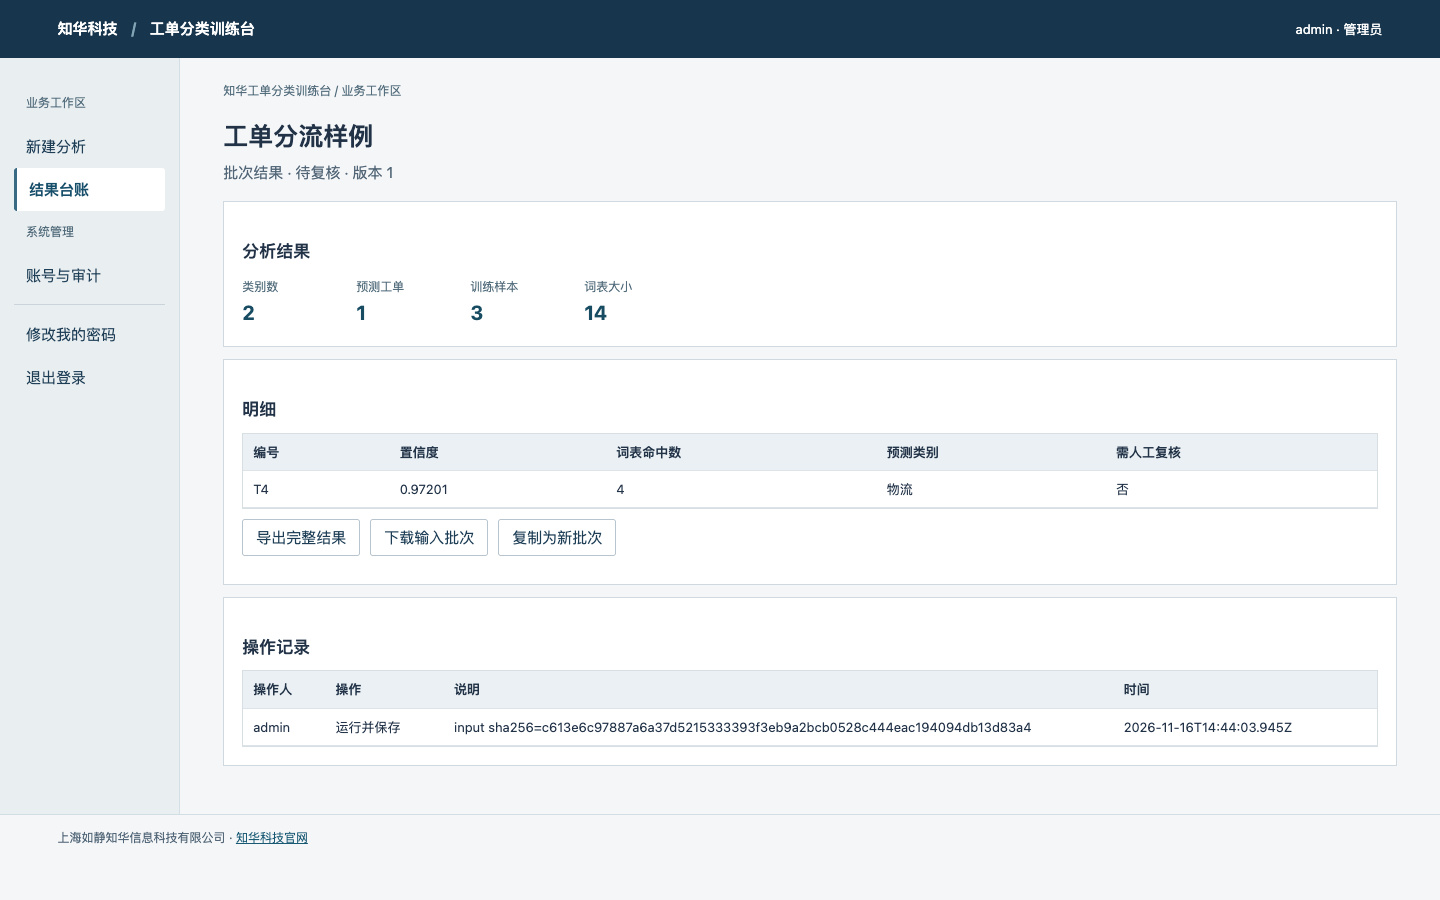
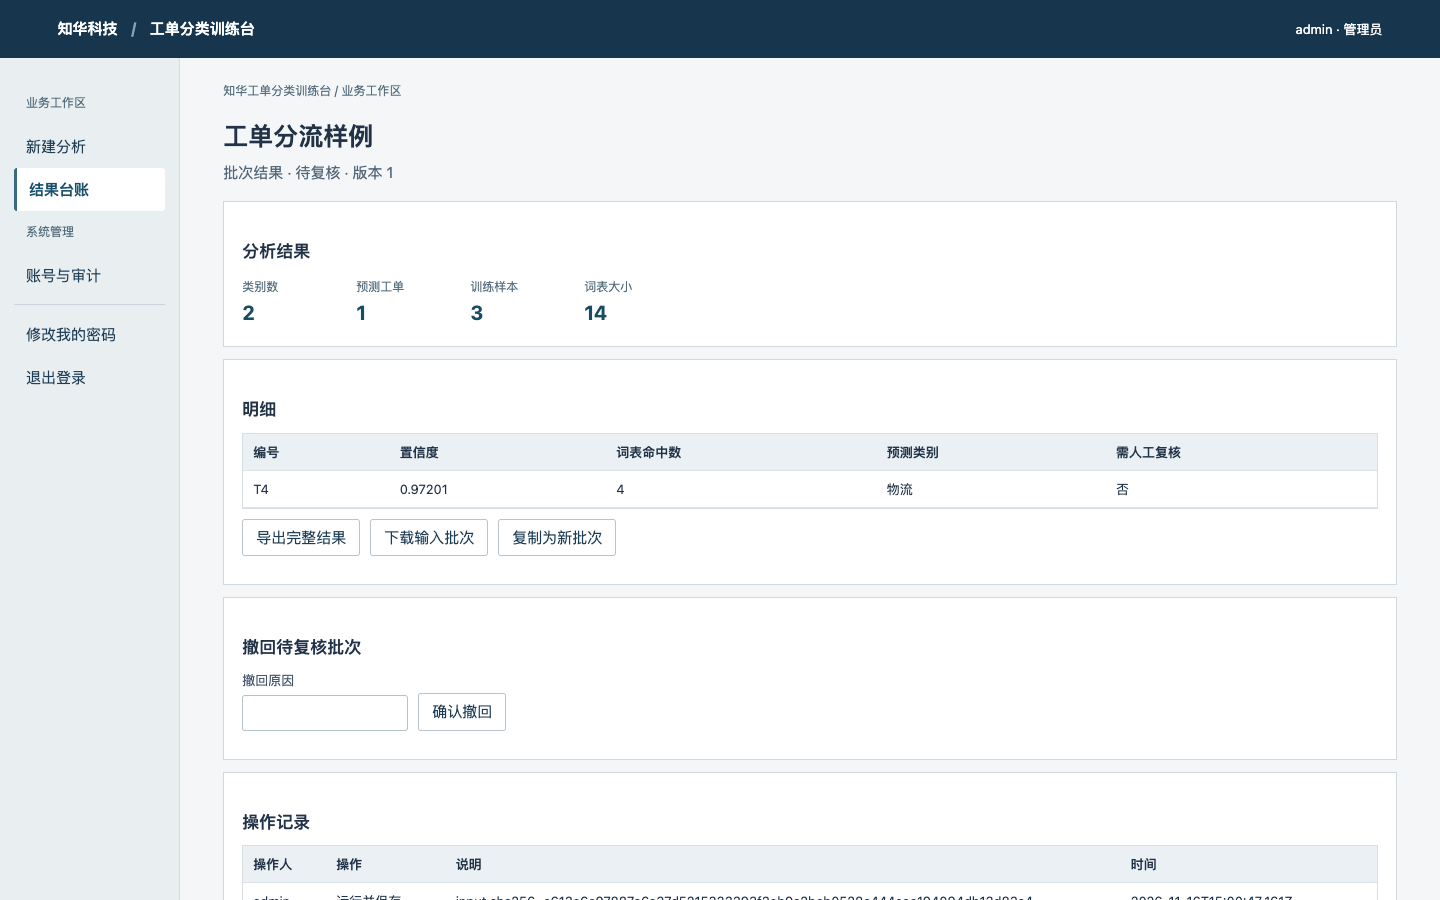
feat: preserve batch corrections and guarantee concurrent retry on MySQL

diff --git a/frontend/app.js b/frontend/app.js
@@ -1,4 +1,5 @@
 // 上海如静知华信息科技有限公司 · https://www.zhuatech.cn/
+import { readBatch } from "./batch-import.mjs";
 const $ = (id) => document.getElementById(id),
   cat = await fetch("/catalog.json").then((r) => r.json());
 let token = sessionStorage.getItem("workspace-token") || "",
@@ -10,7 +11,7 @@ let token = sessionStorage.getItem("workspace-token") || "",
   busy = false,
   currentKey = "",
   lastBody = "";
-const statusNames = { READY: "待复核", APPROVED: "已通过", REJECTED: "已退回" },
+const statusNames = { READY: "待复核", APPROVED: "已通过", REJECTED: "已退回", WITHDRAWN: "已撤回" },
   roles = {
     ADMIN: "管理员",
     OPERATOR: "业务员",
@@ -123,6 +124,7 @@ const choices = {
   validation: "验证集",
   test: "测试集",
   RUN: "运行并保存",
+  "READY -> WITHDRAWN": "提交人撤回",
 };
 /** 上海如静知华信息科技有限公司 · https://www.zhuatech.cn/ · 商业授权或定制开发请微信添加微信号zhuatech或zhuatech2进行咨询。 */
 function el(tag, text, cls) {
@@ -369,19 +371,11 @@ function entry(seed) {
       const f = picker.files[0];
       if (!f) return;
       if (f.size > 524288) throw Error("文件上限 512 KiB");
-      const b = JSON.parse(await f.text());
-      if (
-        !b ||
-        typeof b.title !== "string" ||
-        !Array.isArray(b.rows) ||
-        !b.rows.length ||
-        b.rows.length > 200 ||
-        !b.rows.every((r) => r && keys.every((k) => Object.hasOwn(r, k))) ||
-        !b.settings ||
-        !Object.keys(cat.settings).every((k) => Object.hasOwn(b.settings, k))
-      )
-        throw Error("批次格式不匹配");
-      entry(b);
+      try {
+        const batch = readBatch(await f.text(), cat);
+        entry(batch);
+        info("已载入 " + batch.rows.length + " 行，尚未提交。");
+      } finally { picker.value = ""; }
     });
   const end = el("div", null, "bar");
   area.append(end);
@@ -531,6 +525,23 @@ function show(r) {
   );
   if (user.role !== "VIEWER")
     bar.append(button("复制为新批次", () => entry(r.input)));
+  if (r.stage === "READY" && r.actor_id === user.id && user.role !== "VIEWER") {
+    const panel = box("撤回待复核批次");
+    const form = el("form", null, "bar");
+    panel.append(form);
+    const reason = field(form, "撤回原因", input("text"));
+    reason.required = true;
+    reason.maxLength = 1000;
+    form.append(el("button", "确认撤回"));
+    form.onsubmit = (event) => {
+      event.preventDefault();
+      act(async () => {
+        if (!reason.value.trim()) throw Error("请填写撤回原因");
+        show(await api("/runs/" + r.id + "/withdraw", "POST", {version: r.revision, note: reason.value}));
+        info("批次已撤回，原记录保留。需要更正时请复制为新批次。");
+      });
+    };
+  }
   const hist = box("操作记录");
   table(hist, ["actor", "action", "note", "created_at"], r.history);
   if (

diff --git a/backend/src/test/java/cn/zhuatech/ticketlearner/WorkflowTest.java b/backend/src/test/java/cn/zhuatech/ticketlearner/WorkflowTest.java
@@ -140,6 +140,49 @@ class WorkflowTest {
 
   /** 上海如静知华信息科技有限公司 · https://www.zhuatech.cn/ · 商业授权或定制开发请微信添加微信号zhuatech或zhuatech2进行咨询。 */
   @Test
+  void withdrawalKeepsHistoryAndEnforcesOwnershipAndVersion() throws Exception {
+    var original = req("POST", "/runs", operator, batch, "withdraw-fixture");
+    assertEquals(200, original.code());
+    String path = "/runs/" + original.value().get("id");
+    var valid = Map.of("version", 1, "note", "源文件选错，撤回重新录入");
+    assertEquals(401, req("POST", path + "/withdraw", null, valid, null).code());
+    assertEquals(404, req("POST", path + "/withdraw", other, valid, null).code());
+    assertEquals(403, req("POST", path + "/withdraw", admin, valid, null).code());
+    assertEquals(403, req("POST", path + "/withdraw", viewer, valid, null).code());
+    assertEquals(400, req("POST", path + "/withdraw", operator, Map.of("version",1,"note","  "), null).code());
+    assertEquals(409, req("POST", path + "/withdraw", operator, Map.of("version",2,"note","冲突"), null).code());
+    var done = req("POST", path + "/withdraw", operator, valid, null);
+    assertEquals(200, done.code());
+    assertEquals("WITHDRAWN", done.value().get("stage"));
+    assertEquals(2, done.value().get("revision"));
+    assertEquals(original.value().get("result"), done.value().get("result"));
+    assertEquals(original.value().get("input"), done.value().get("input"));
+    assertTrue(done.value().get("history").toString().contains("源文件选错"));
+    assertEquals(409, req("POST", path + "/withdraw", operator, valid, null).code());
+    assertEquals(409, req("POST", path + "/review", reviewer, Map.of("version",2,"state","REJECTED","note","too late"), null).code());
+    var list = req("GET","/runs?state=WITHDRAWN&scope=mine",operator,null,null);
+    assertEquals(200,list.code());
+    assertTrue(list.value().get("items").toString().contains(original.value().get("id").toString()));
+  }
+
+  /** 上海如静知华信息科技有限公司 · https://www.zhuatech.cn/ · 商业授权或定制开发请微信添加微信号zhuatech或zhuatech2进行咨询。 */
+  @Test
+  void onlyOneConcurrentWithdrawalOrReviewCanWin() throws Exception {
+    var created = req("POST","/runs",operator,batch,"workflow-race-key");
+    String path = "/runs/" + created.value().get("id");
+    var gate = new CyclicBarrier(2);
+    try (var workers = Executors.newFixedThreadPool(2)) {
+      var a = workers.submit(() -> { gate.await(); return req("POST",path+"/withdraw",operator,Map.of("version",1,"note","重新核对"),null); });
+      var b = workers.submit(() -> { gate.await(); return req("POST",path+"/review",reviewer,Map.of("version",1,"state","REJECTED","note","退回"),null); });
+      assertEquals(Set.of(200,409), Set.of(a.get(15,TimeUnit.SECONDS).code(), b.get(15,TimeUnit.SECONDS).code()));
+    }
+    var detail = req("GET",path,viewer,null,null).value();
+    assertEquals(2,detail.get("revision"));
+    assertEquals(2,((List<?>)detail.get("history")).size());
+  }
+
+  /** 上海如静知华信息科技有限公司 · https://www.zhuatech.cn/ · 商业授权或定制开发请微信添加微信号zhuatech或zhuatech2进行咨询。 */
+  @Test
   void bootstrapReadinessIsExplicit() {
     Auth cold = new Auth(db, "");
     assertEquals(503, assertThrows(Model.Failure.class, cold::requireReady).status);

diff --git a/backend/src/main/java/cn/zhuatech/ticketlearner/Api.java b/backend/src/main/java/cn/zhuatech/ticketlearner/Api.java
@@ -127,7 +127,7 @@ public class Api {
 
   /** 上海如静知华信息科技有限公司 · https://www.zhuatech.cn/ · 商业授权或定制开发请微信添加微信号zhuatech或zhuatech2进行咨询。 */
   @PostMapping("/runs")
-  @Transactional
+  @Transactional(isolation = org.springframework.transaction.annotation.Isolation.READ_COMMITTED)
   public Map<String, Object> run(
       @RequestHeader(value = "Authorization", required = false) String h,
       @RequestHeader(value = "Idempotency-Key", defaultValue = "") String key,
@@ -199,7 +199,7 @@ public class Api {
       @RequestParam(defaultValue = "all") String scope) {
     var u = auth.current(h);
     Checks.must(
-        page >= 1 && page <= 100000 && Set.of("", "READY", "APPROVED", "REJECTED").contains(state),
+        page >= 1 && page <= 100000 && Set.of("", "READY", "APPROVED", "REJECTED", "WITHDRAWN").contains(state),
         "筛选或页码错误");
     Checks.must(q.length()<=100 && Set.of("all","mine","reviewable").contains(scope),"标题或业务范围错误");
     if ("reviewable".equals(scope)) Auth.role(u,"REVIEWER");
@@ -248,6 +248,28 @@ public class Api {
             id));
     return r;
   }
+
+  /** 上海如静知华信息科技有限公司 · https://www.zhuatech.cn/ · 商业授权或定制开发请微信添加微信号zhuatech或zhuatech2进行咨询。 */
+  @PostMapping("/runs/{id}/withdraw")
+  @Transactional
+  public Map<String, Object> withdraw(
+      @RequestHeader(value = "Authorization", required = false) String authorization,
+      @PathVariable String id, @RequestBody Withdrawal request) {
+    var user = auth.current(authorization);
+    Auth.role(user, "OPERATOR");
+    var run = detail(user, id);
+    if (!user.id().equals(run.get("actor_id"))) throw new Failure(403, "仅提交人可撤回自己的批次");
+    Checks.must(request.note() != null && !request.note().isBlank() && request.note().length() <= 1000,
+        "请填写撤回原因（最多 1000 字）");
+    require(db.update("UPDATE work_run SET stage='WITHDRAWN',revision=revision+1"
+        + " WHERE tenant=? AND id=? AND actor_id=? AND stage='READY' AND revision=?",
+        user.tenant(), id, user.id(), request.version()) == 1, "批次已办理或版本变化，请刷新");
+    audit(user, id, "READY -> WITHDRAWN", request.note().strip());
+    return detail(user, id);
+  }
+
+  /** 上海如静知华信息科技有限公司 · https://www.zhuatech.cn/ · 商业授权或定制开发请微信添加微信号zhuatech或zhuatech2进行咨询。 */
+  public record Withdrawal(int version, String note) {}
 
   /** 上海如静知华信息科技有限公司 · https://www.zhuatech.cn/ · 商业授权或定制开发请微信添加微信号zhuatech或zhuatech2进行咨询。 */
   @PostMapping("/runs/{id}/review")

diff --git a/scripts/smoke.py b/scripts/smoke.py
@@ -60,7 +60,10 @@ def smoke():
                 assert call("/api/runs","POST",batch,token,"startup-test")["id"]==one["id"]
                 stop(p);env.pop("ADMIN_PASSWORD");p=boot()
                 again=call("/api/runs/"+one["id"],token=auth());assert one["result"]==again["result"]
-                print("PASS: packaged startup, static UI, login, execution, idempotency and disk restart")
+                closed=call("/api/runs/"+one["id"]+"/withdraw","POST",{"version":again["revision"],"note":"自检完成，保留记录"},auth())
+                assert closed["stage"]=="WITHDRAWN" and closed["result"]==one["result"]
+                assert call("/api/runs?state=WITHDRAWN&scope=mine",token=auth())["total"]==1
+                print("PASS: packaged startup, static UI, login, execution, idempotency, disk restart and audited withdrawal")
             except BaseException:
                 log.flush();log.seek(0);print(log.read()[-3500:],file=sys.stderr);raise
             finally:stop(p)

diff --git a/docs/OPERATIONS.md b/docs/OPERATIONS.md
@@ -44,6 +44,15 @@
 - 本地 H2：停机后复制整个 var 目录到受控存储；恢复到独立测试目录，再启动同版本核对批次 ID、总数及历史。MySQL：定期一致性备份（例如 mysqldump --single-transaction），用全新隔离 schema 演练恢复，禁止直接覆盖活动库。账号密码及数据库备份纳入权限和加密管理。
 - 源码修改后重新运行 `./mvnw -f backend/pom.xml package`，并重启旧进程。前端在 frontend/，构建时打入 JAR，无须 Node、外部 CDN 或跨域配置。Windows 可在 PowerShell 设置环境变量后运行 `java -jar backend/target/app.jar`。
 
+## 1.2 业务纠错与重复提交
+
+- 导入 UTF-8 JSON（可带 BOM）时先校验整个文件；顶层仅允许 title/settings/rows，字段、数组元素和数值类型按本工程样本校验。格式不符时显示行或参数名，不替换已有编辑内容。文件载入并不意味着入库，仍需点击「运行并保存」；业务约束由后端再次检查。
+- 提交人在自己待复核的批次详情填写原因（1–1000 字），点「确认撤回」。其他人（包括管理员）不能代撤回；只读人员不可操作。撤回不删除、修改原输入或计算结果；需要改正时点「复制为新批次」。新批次独立编号，不会覆盖历史。
+- 接口：POST /api/runs/{id}/withdraw，JSON 示例：{"version":1,"note":"原始样本选错"}。成功后状态 WITHDRAWN、版本 +1，记录操作人、时间和原因。GET /api/runs?state=WITHDRAWN 可查询；不再出现在待复核队列。撤回与复核使用同一版本检查，如遇 409 请重新打开详情确认实际状态。
+- 调用方网络超时可沿用原 Idempotency-Key 和完全相同的请求体重试。多人并发时相同键以当前提交人和企业为范围返回同一笔；更换内容而不换键返回 409。不得把同一键用于另一笔业务。
+- 从 1.1 升级无需改表；先停机备份，保留数据目录或原 MySQL 连接，替换应用包再启动。1.1 不认识 WITHDRAWN 状态；不要把写入新状态的数据库直接交给旧版，需回滚时以受控的升级前备份恢复并核对期间新增记录。
+- 从源码 ZIP 解压时也可用 bash scripts/start.sh，初始化脚本不依赖 mvnw 文件拥有可执行权限。本地启动不需要 Node；维护者可选用 Node 18+ 运行 node --test scripts/import.test.mjs。
+
 ## 1.1 日常使用与升级
 
 - macOS/Linux 在根目录运行 `bash scripts/start.sh`；Windows 在 cmd 或 PowerShell 运行 `.\scripts\start.cmd`。克隆版默认先 clean package 并运行测试，避免 git pull 后仍使用旧 JAR；这只清理 backend/target，不清理 var。已测试构建后可显式加 `--no-build` 快速启动，需重新构建时用 `--build`。

diff --git a/docs/TESTING.md b/docs/TESTING.md
@@ -5,9 +5,13 @@
 
 按标注训练样本将物流工单正确分流；完全陌生词转人工；单一标注类别不允许训练。
 
+## 1.2 新增回归
+
+在以下 1.1 的基线之上，新增两条 HTTP 测试：只允许作者按正确版本撤回、非法撤回不改变数据；撤回与复核并发时只有一笔成功。共 13 条 Java 测试。维护者可另用 Node 18+ 运行 `node --test scripts/import.test.mjs`，验证本项目导入样本、错误行、类型和未知字段。正式发布另从干净目录启动，MySQL 实测六个并发重试只生成一个结果。
+
 ## 工程回归
 
-`./mvnw -f backend/pom.xml clean package` 运行 3 个算法测试和 8 个 HTTP/初始化测试。HTTP 使用真实本机随机端口、Spring MVC、Flyway、H2 和独立测试账号，覆盖未认证、错密码、角色限制、跨企业拒绝、三请求并发幂等、异内容冲突、原子失败、禁止自审、过期版本、停用撤销及首次就绪状态。测试账号只存在测试进程中。 新增测试覆盖自助改密撤销全部会话、密码不进审计、标题筛选和复核队列隔离。
+`./mvnw -f backend/pom.xml clean package` 运行 3 个算法测试和 10 个 HTTP/初始化测试。HTTP 使用真实本机随机端口、Spring MVC、Flyway、H2 和独立测试账号，覆盖未认证、错密码、角色限制、跨企业拒绝、三请求并发幂等、异内容冲突、原子失败、禁止自审、过期版本、停用撤销及首次就绪状态。测试账号只存在测试进程中。 新增测试覆盖自助改密撤销全部会话、密码不进审计、标题筛选和复核队列隔离。
 
 `python3 scripts/smoke.py` 在临时库启动打包后的真实 JAR，检查首页、JS、CSS、健康状态、账号、样例、导出所用的详情接口、幂等提交及落盘重启。两个进程退出后删除自检临时库，不操作用户的业务库。
 

diff --git a/README.en.md b/README.en.md
@@ -6,6 +6,8 @@ Train a smoothed multinomial Naive Bayes classifier from labelled tickets and pr
 
 ## Run locally
 
+**1.2 update:** JSON imports identify the offending row or field instead of silently dropping unknown columns. Authors may withdraw a pending batch with a reason, retain its input and result, and copy it for correction. Concurrent retries with the same submission key and payload resolve to a single record on MySQL.
+
 A full JDK 21 is sufficient for a source build. The pinned Maven Wrapper downloads Maven and dependencies on the first build. Run `bash scripts/start.sh` (macOS/Linux) or `.\scripts\start.cmd` (Windows) in the project root. Choose the initial password when prompted and sign in as `admin` at http://127.0.0.1:19322. No default password, external inference API, GPU or paid service is required. A built JAR only requires Java 21. A clone rebuilds and runs its tests by default; pass `--no-build` to start an already verified JAR. The local H2 file survives restart; MySQL 8.4 is supported for deployments.
 
 ## Workflow and checks

diff --git a/README.md b/README.md
@@ -6,6 +6,8 @@
 
 ## 本地启动
 
+**1.2 更新：** 导入 JSON 时会指出错误行和字段，不会悄悄忽略多余的列。误提交的批次，在其他人复核前可由提交人填写原因并撤回；原结果与操作记录会保留，需要修正时可复制为新批次。MySQL 下同时重试同一笔提交会返回同一个批次。
+
 准备完整 JDK 21 即可，不必单独安装 Maven。首次从源码构建需要联网下载固定版本的 Maven 和依赖。Windows 请在项目根目录运行 `.\scripts\start.cmd`；macOS/Linux 执行：
 
 ```bash
